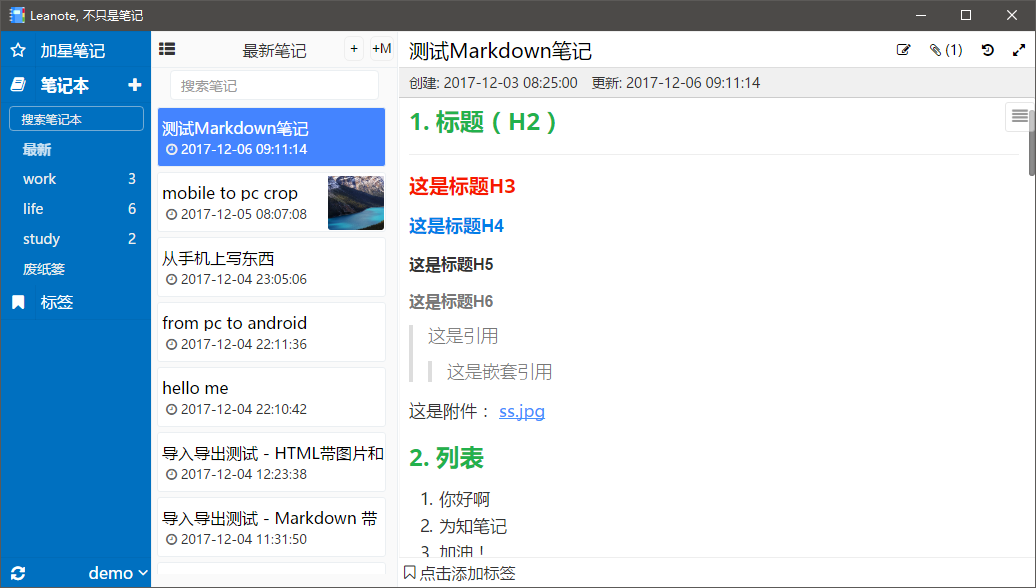
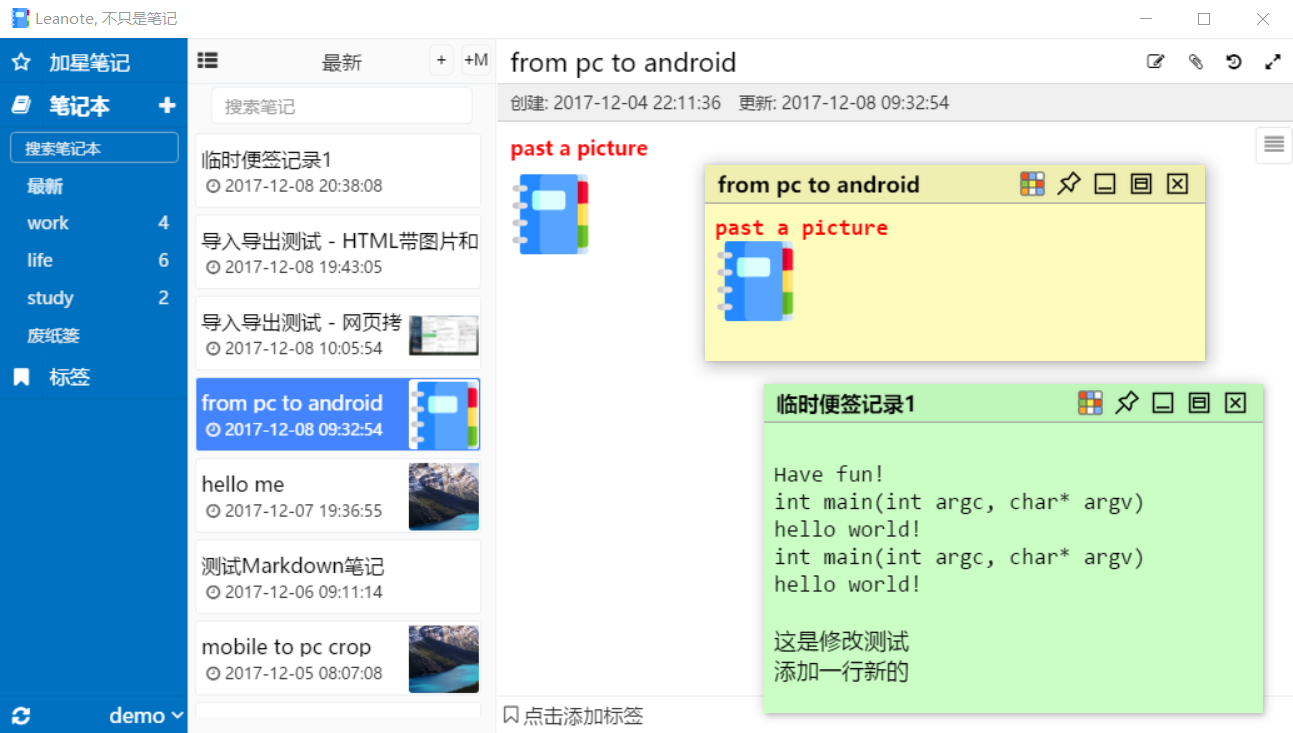
updated the readme

diff --git a/public/plugins/sticky_note/index.html b/public/plugins/sticky_note/index.html
@@ -155,7 +155,7 @@
                 .mce-content-body {
                     font-size:18px;
                     font-family: Consolas, 'Microsoft YaHei', monospace, Arial, sans-serif;
-                    background: '#FDFCBC';
+                    background:#FDFCBC;
                     color:#000;
                     overflow-y: atuo;
                 }

diff --git a/README.md b/README.md
@@ -2,21 +2,22 @@
 
 [![Gitter](https://badges.gitter.im/Join%20Chat.svg)](https://gitter.im/leanote/desktop-app?utm_source=badge&utm_medium=badge&utm_campaign=pr-badge)
 
-**This the Leanote desktop app modified by xpgo.** Thanks the [Leanote Team](http://app.leanote.com) for sharing such wouderful app.
+**The Leanote desktop app modified by xpgo.** 
+Thanks the [Leanote Team](http://app.leanote.com) for sharing such wouderful app.
 
-The preview of the modified version of Leanote:
+Preview of the modified version of Leanote:
 ![previewBlue.png](previewBlue.png "")
 
 ## Extended features based on the original version
-- Added blue_pure theme (see the preview)
-- Added githubx markdown theme (see the preview)
+- Added blue_pure, green_pure and grey_pure themes (see the preview)
+- Added the githubx markdown theme (see the preview)
 - Increased the whole font size
 - Import wiz notes (为知笔记) correctlly, even with attachments
 - Open attachment link directly in the note
 - Fixed image display problems (for those who deploy leanote server themselves)
-- Upload image and attachment without size limits
+- Upload image and attachment without size limits (Need to modify server app)
 - Double click or use `F4` to enter edit mode
-- Sticky note. You can open an HTML note in a separated window (sticky note like), so you can use it to collect temporary text. The content in the sticky note will be saved when it is closed (or use `ctrl+s` to save it). Moreover, you can customize shortkeys in the sticky note to do more, i.e. insert data, time, horizontal rule and so on. 
+- Sticky note. An HTML note can be opened in a separated window (sticky note like), so you can use it to collect temporary text. The content in the sticky note will be saved when it is closed (or use `ctrl+s` to save it). Moreover, you can customize shortkeys in the sticky note to do more, i.e. insert data, time, horizontal rule and so on. 
 
 ## Download
 Download the code and use electron to run this app.
